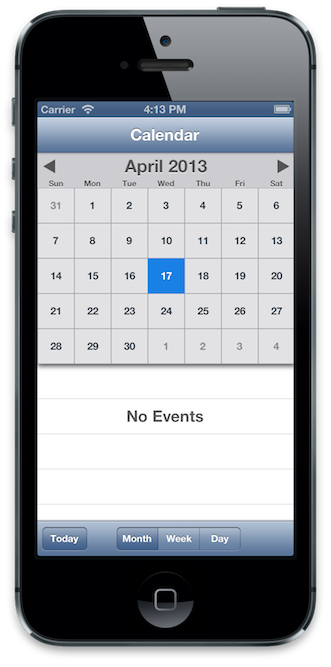
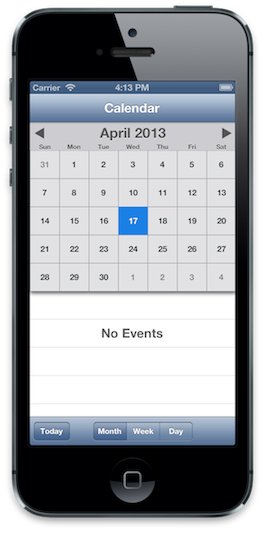
Resized some screenshots.

diff --git a/README.md b/README.md
@@ -50,7 +50,7 @@ You have two choices for showing a calendar using MBCalendarKit.
  		[calendar setDataSource:self];
  		
 		// 3. Present the calendar 
-		[self view] addSubview:calendar];
+		[[]self view] addSubview:calendar];
 
 
 2. Your second option is to create an instance of `CKCalendarViewController`.
